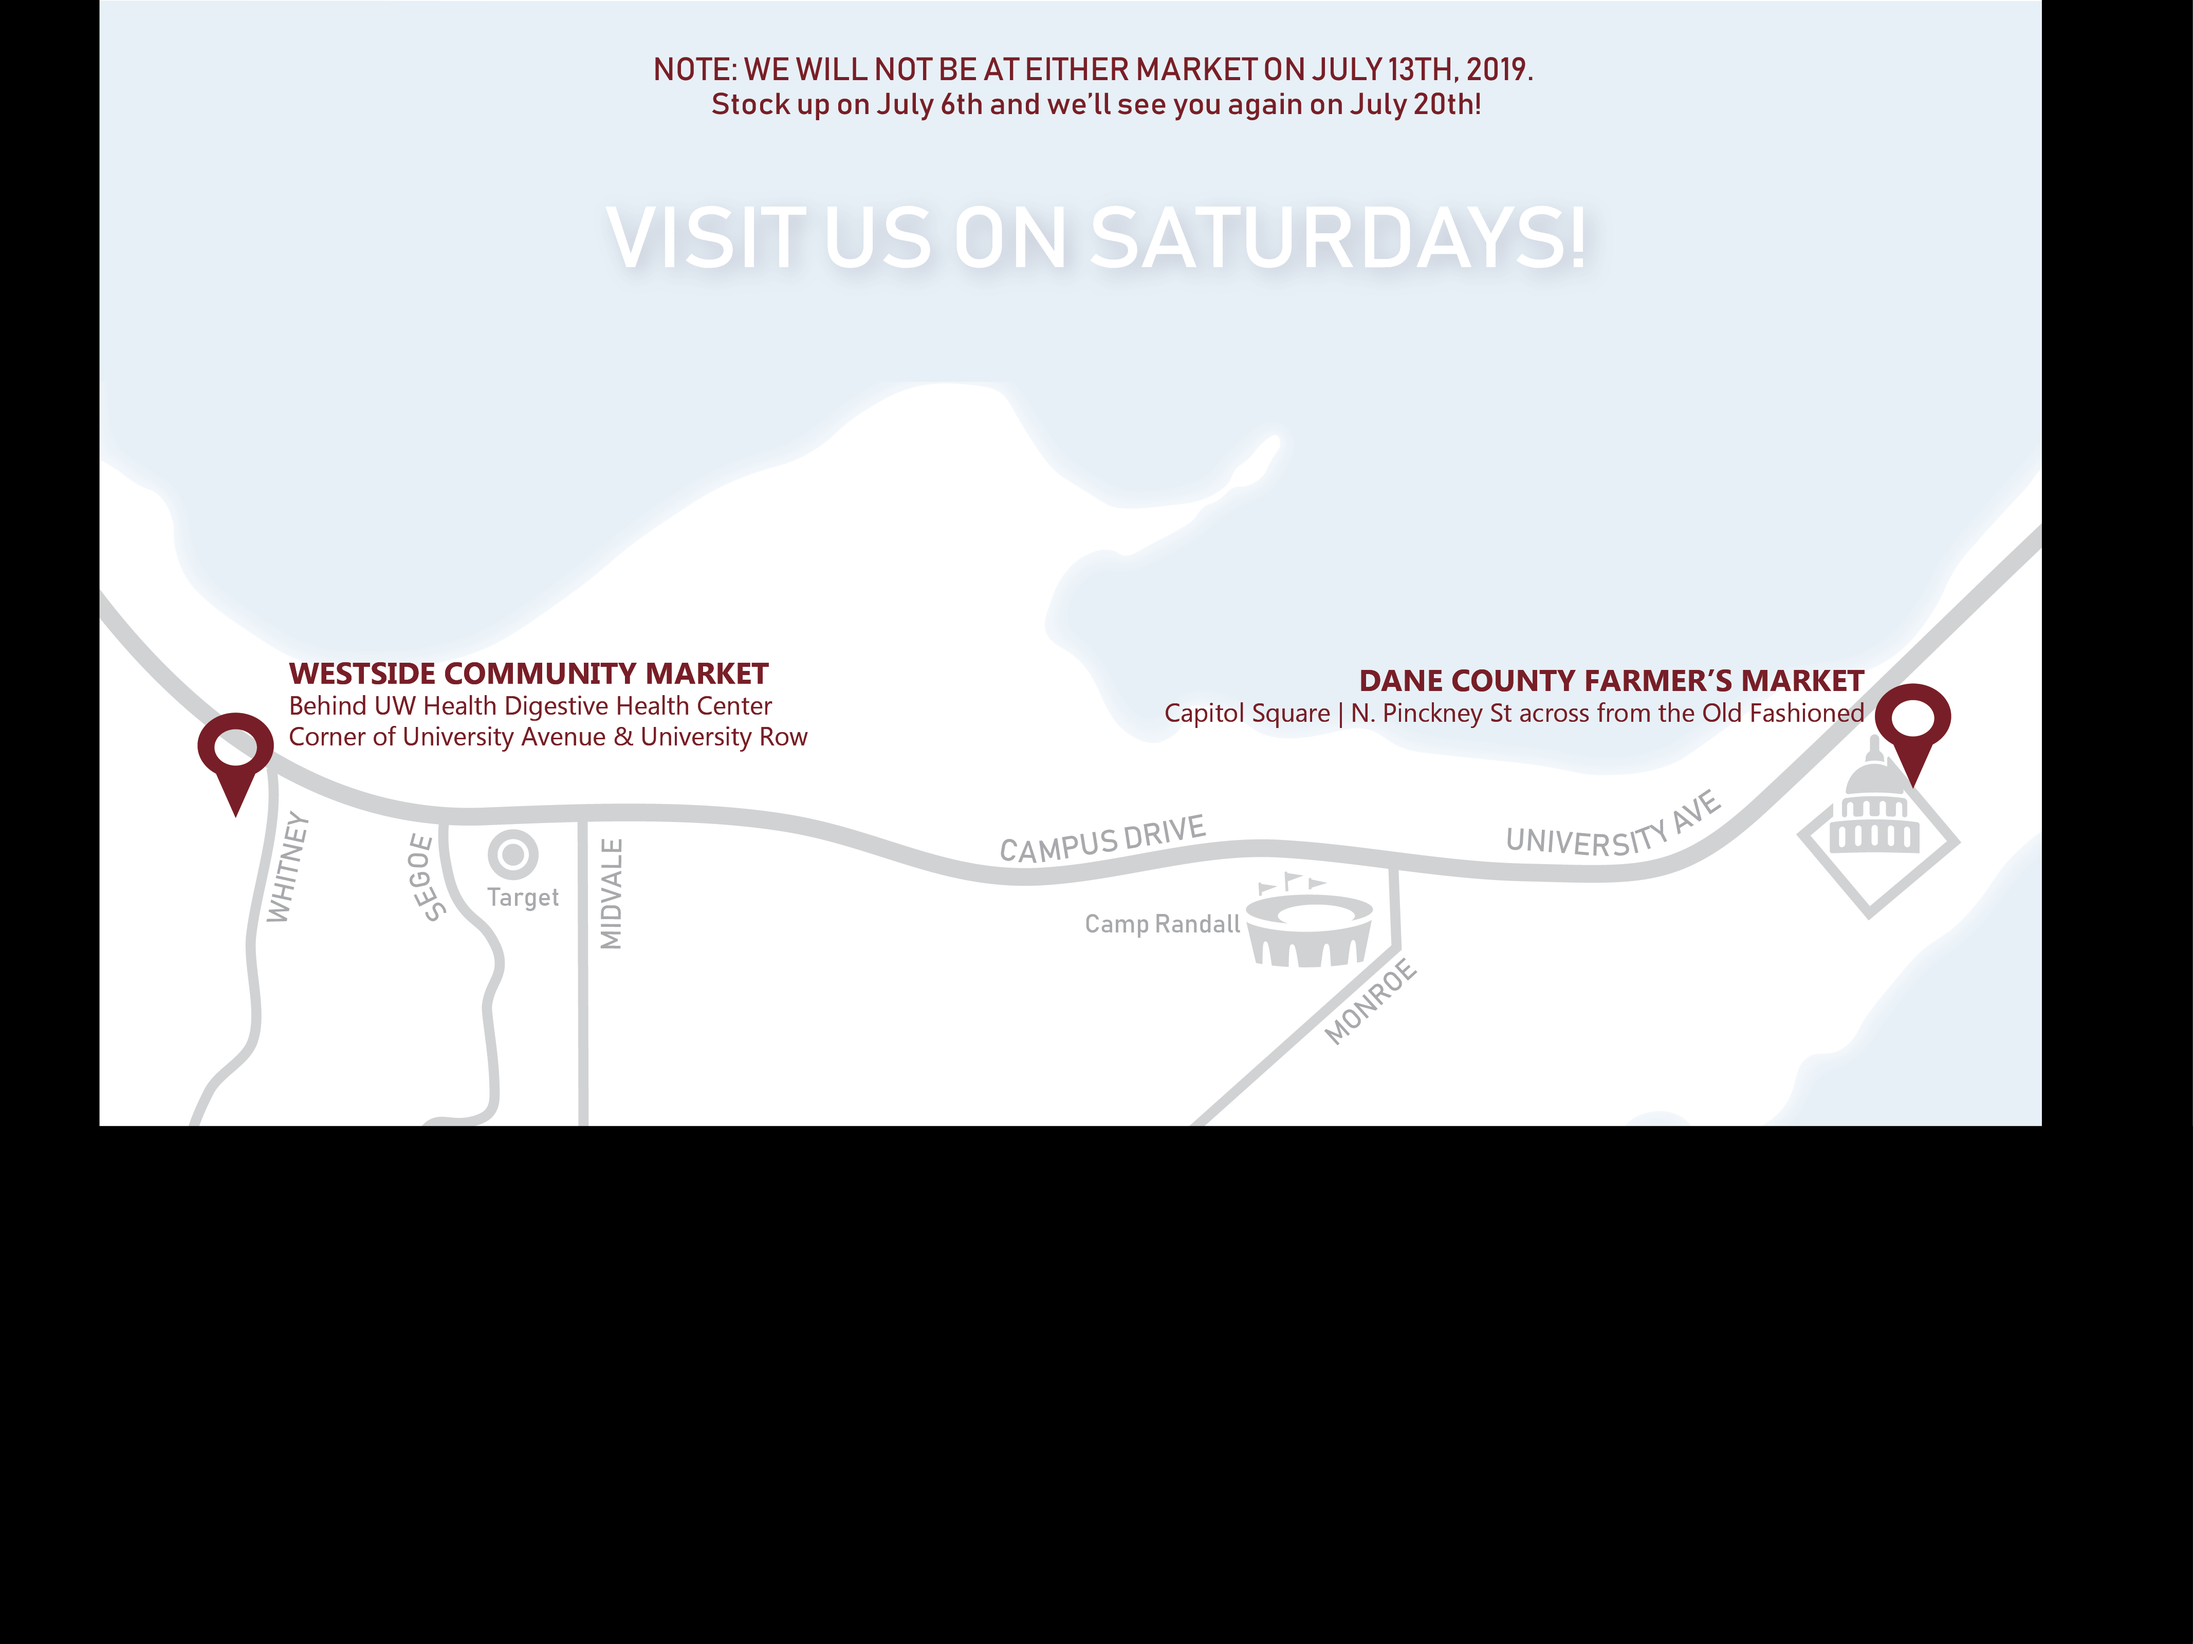
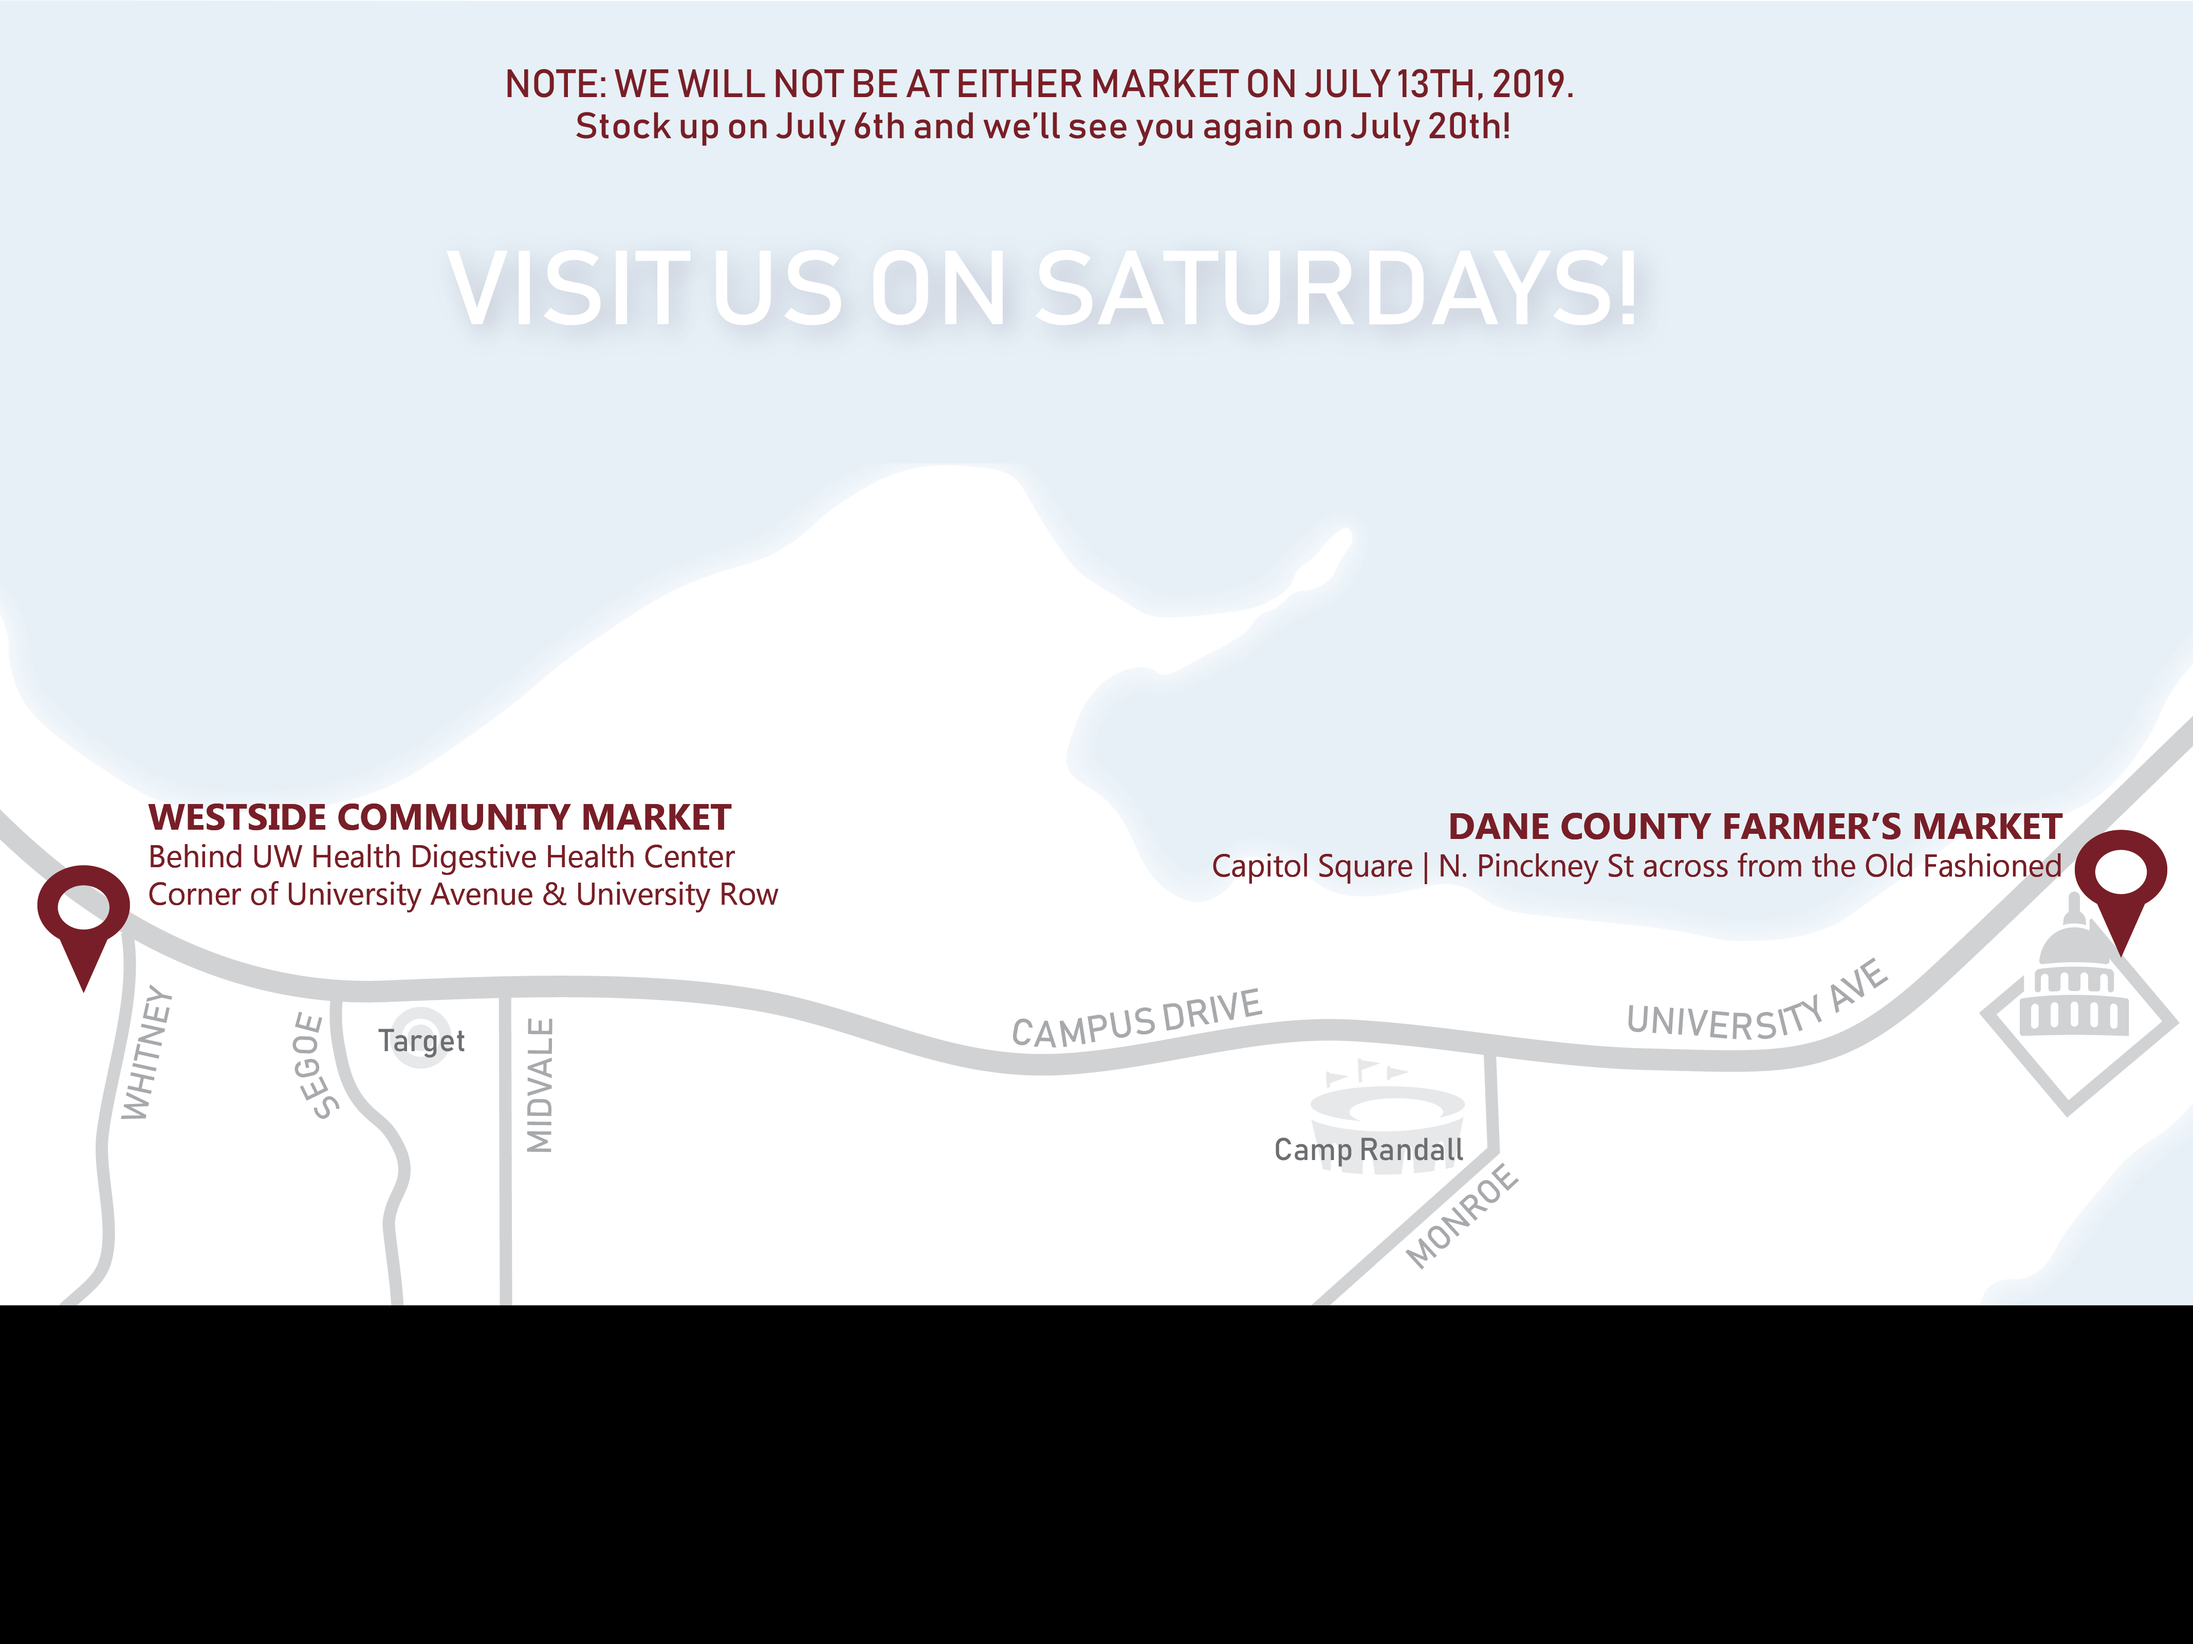
change carousel size

Changed region(s): [[0.0, 0.0, 1.0, 0.8125], [0.2182, 0.0312, 0.7169, 0.0938], [0.2805, 0.125, 0.7481, 0.1875]]

diff --git a/css/style.css b/css/style.css
@@ -160,8 +160,8 @@ hr {
 
 #myCarousel {
   background-color: black;
-  padding-right: 100px;
-  padding-left: 100px;
+  padding-right: 2%;
+  padding-left: 2%;
   align-self: center;
   height: 100%;
 }
